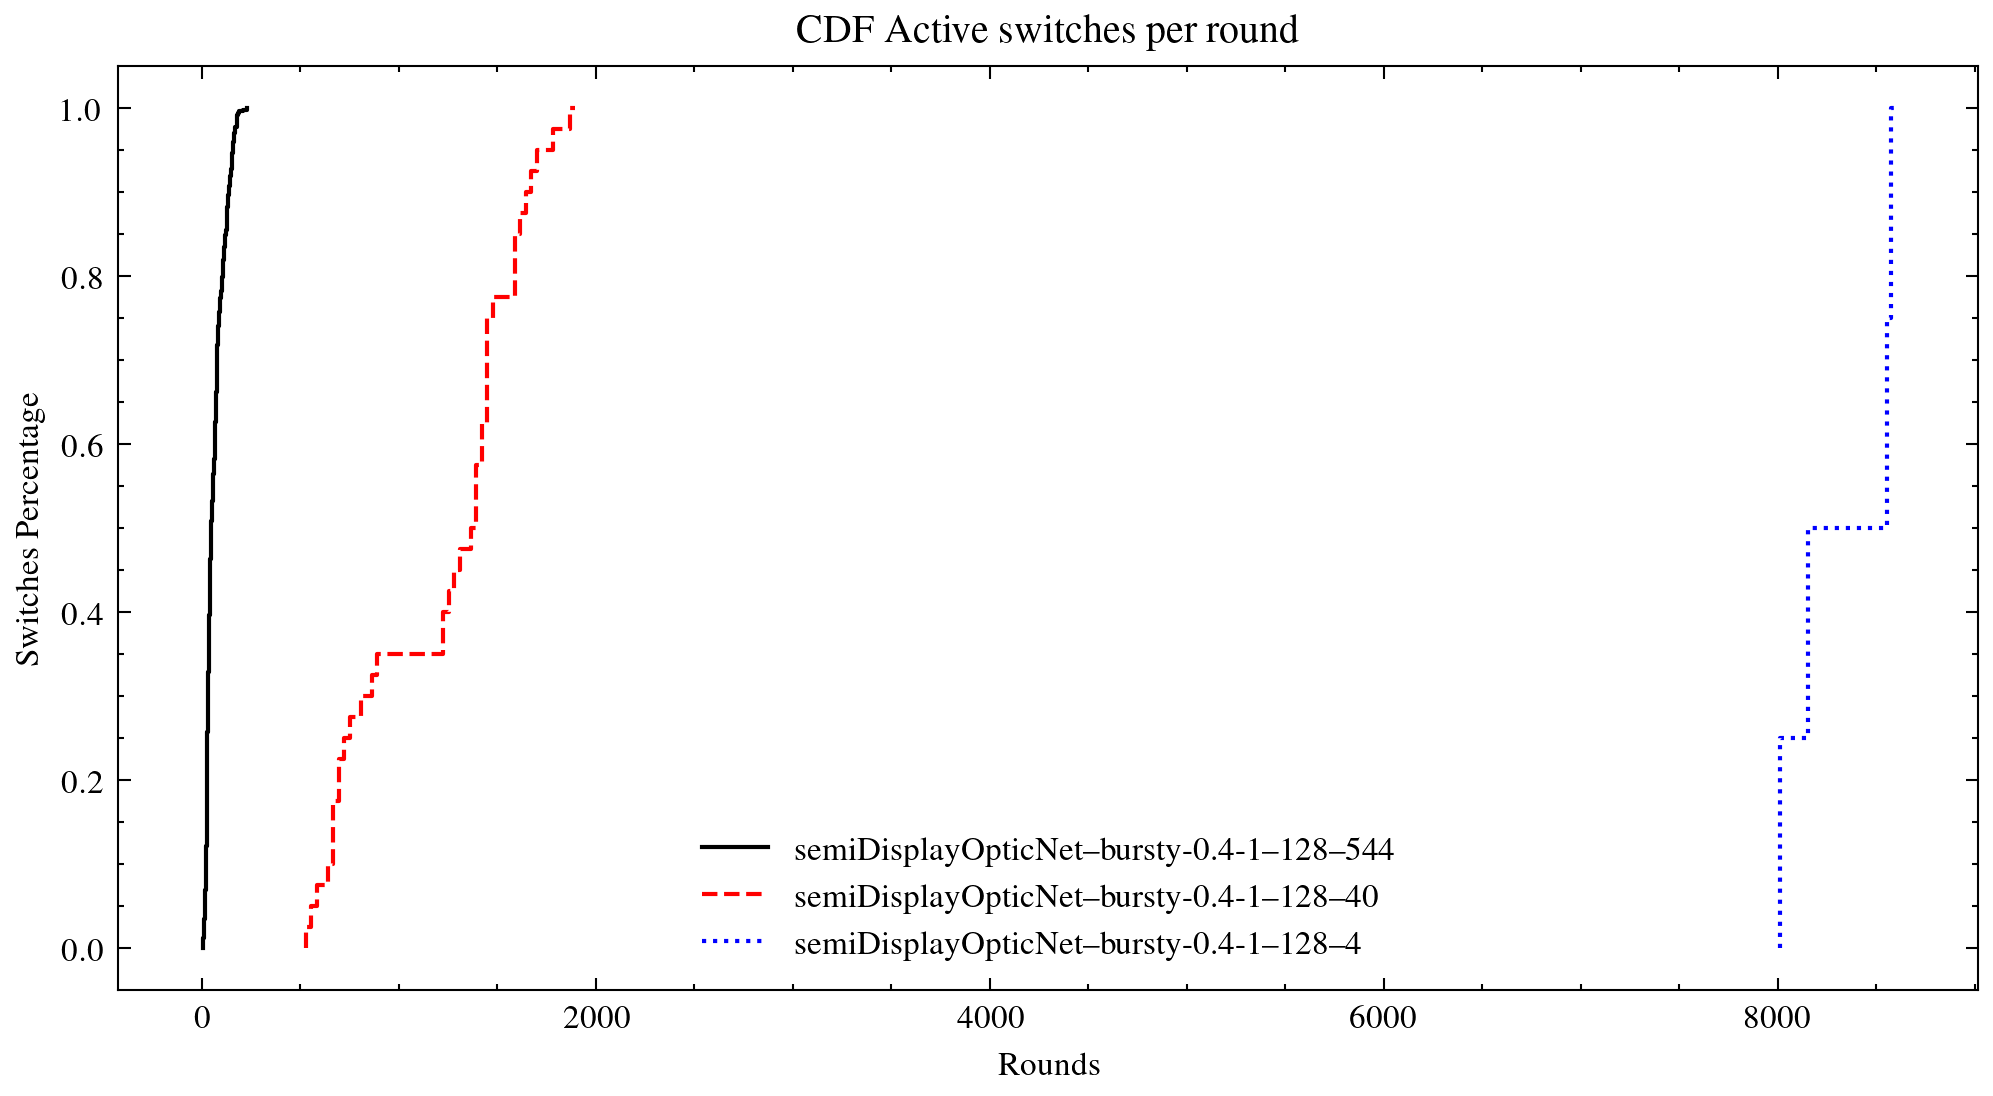
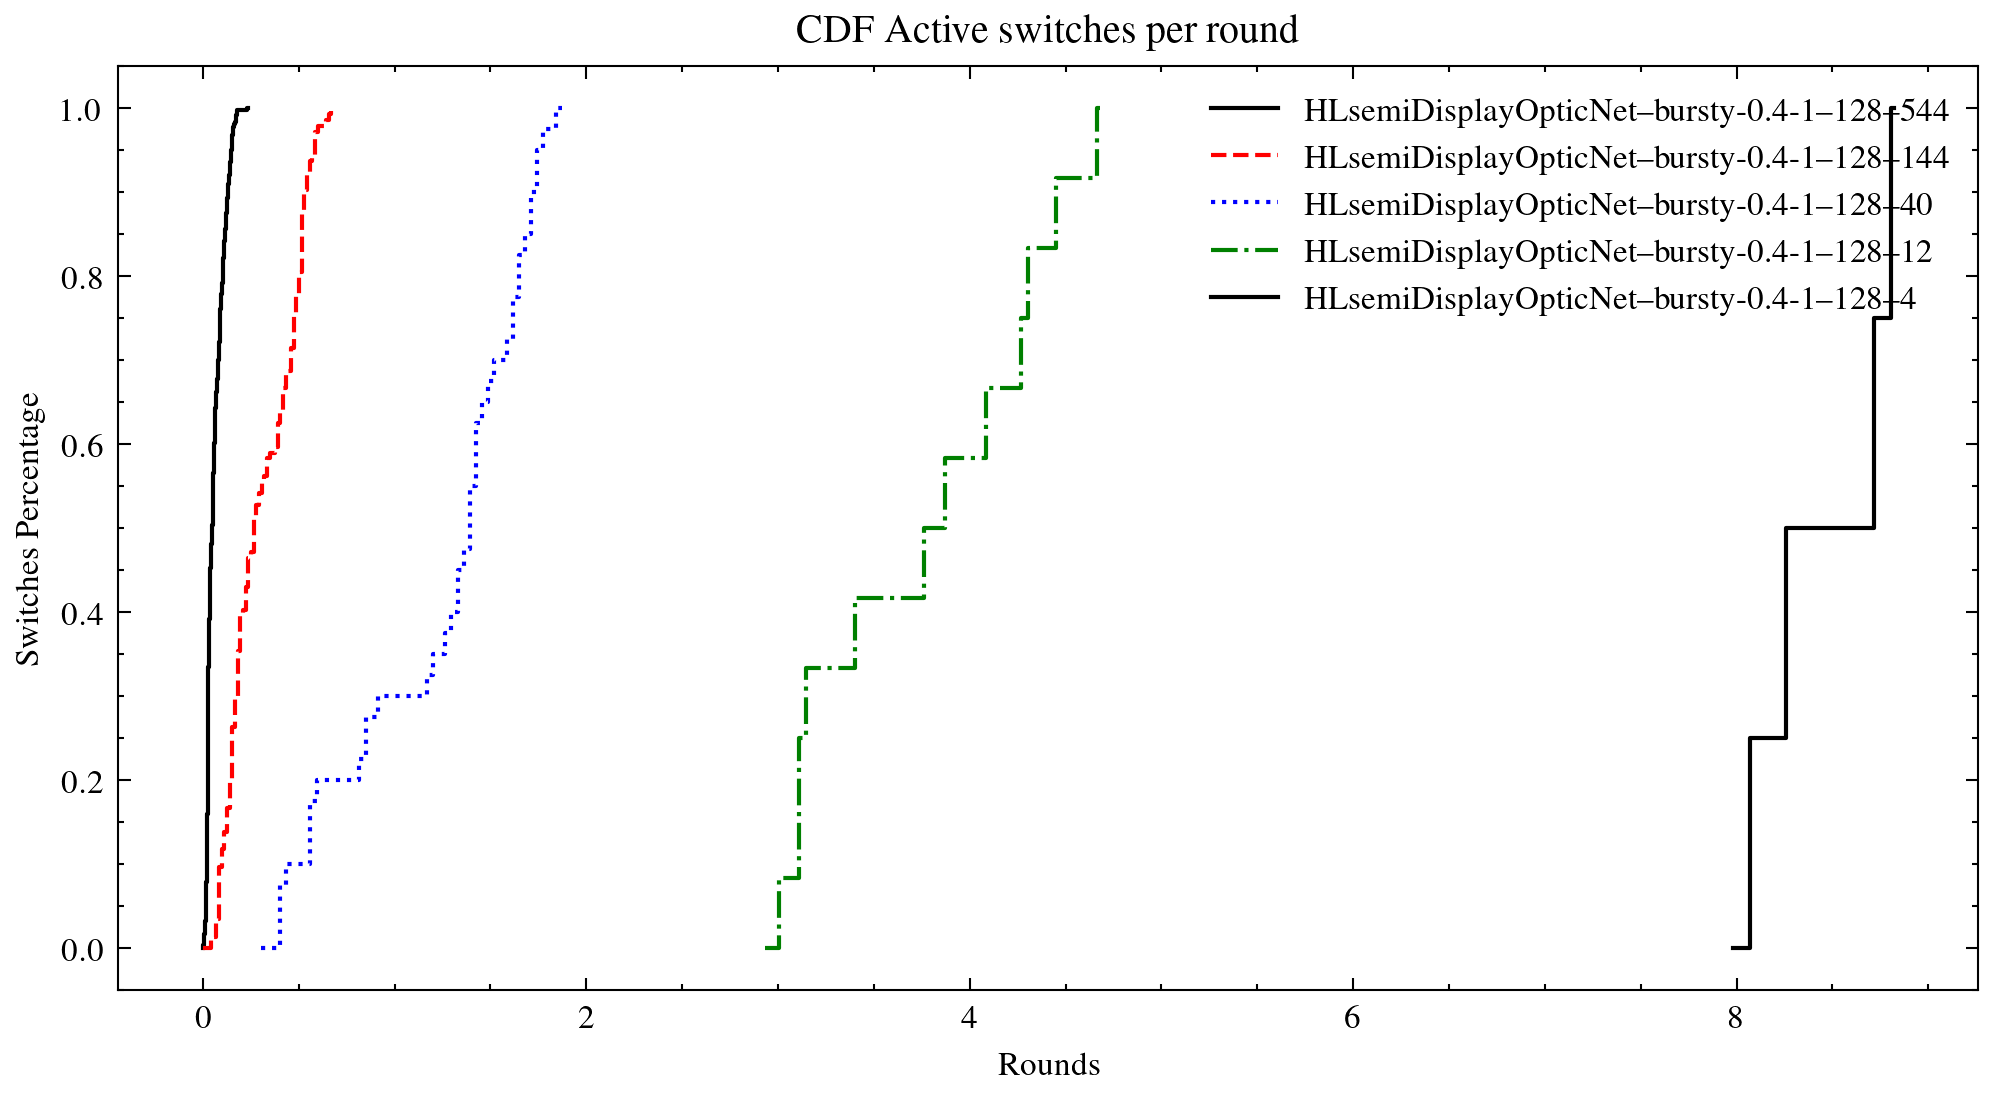
plot of total work by switch size

diff --git a/plotter/DataReader.py b/plotter/DataReader.py
@@ -54,21 +54,6 @@ class DataReader:
             f"logs/output/{self.dataset}/{self.project}_{self.num_nodes}/{self.switch_size}/{self.mu}/"
         )
 
-    def active_switches(self) -> np.ndarray:
-        rout_df = pd.read_csv(self.file_path / "1/routings.csv")
-        alt_df = pd.read_csv(self.file_path / "1/alterations.csv")
-
-        active_df = pd.concat(
-            [rout_df[["round", "switch"]], alt_df[["round", "switch"]]]
-        ).drop_duplicates().reset_index(drop=True)
-
-        total_active_switches = np.zeros(self.num_switches, dtype=np.int64)
-
-        for _, row in active_df.iterrows():
-            total_active_switches[row["switch"]] = 1
-
-        return total_active_switches
-
 
     def cdf_active_switches (self) -> np.ndarray:
         cdf = np.zeros(self.num_switches, dtype=np.float64)
@@ -83,7 +68,7 @@ class DataReader:
         for _, row in active_df.iterrows():
             cdf[row["switch"]] += 1
 
-        return cdf #/ 10**3
+        return cdf / 10**3
 
     def cdf_active_ports (self) -> np.ndarray:
         cdf = np.zeros((self.num_switches, self.switch_ports), dtype=np.float64)
@@ -165,7 +150,7 @@ class DataReader:
             file_df = pd.read_csv(self.file_path / f"{sim_id}/operations.csv")
 
             total_routing[sim_id - 1] = file_df.loc[file_df.name=="message-routing", "sum"].item()
-            total_heuristic_creation[sim_id - 1] = file_df.loc[file_df.name=="heuristic link creation", "sum"].item()
+            total_heuristic_creation[sim_id - 1] = file_df.loc[file_df.name=="heuristic-link-creation", "sum"].item()
             total_alterations[sim_id - 1] = file_df.loc[file_df.name=="alteration", "sum"].item()
 
         total_work = total_routing + total_alterations + total_heuristic_creation

diff --git a/plotter/Plotter.py b/plotter/Plotter.py
@@ -9,7 +9,9 @@ plt.style.use(["science","ieee"])
 abbr: dict[str, str] = {
     "cbOptNet": "CBN",
     "displayOpticNet": "ODSN",
-    "semiDisplayOpticNet": "DSN"
+    "semiDisplayOpticNet": "DSN",
+    "HLsemiDisplayOpticNet": "HLDSN",
+    "HLSplayOpticNet": "HLSON"
 }
 
 @dc.dataclass()
@@ -27,6 +29,7 @@ class Plotter:
         routing_means = []
         alteration_means = []
         heuristic_creation_means = []
+        switch_sizes = []
         work_stds = []
 
         for data in plot_data:
@@ -39,6 +42,7 @@ class Plotter:
             alteration_means.append(total_link_updates.mean() / normalize)
             heuristic_creation_means.append(total_heuristic_creation.mean() / normalize)
             work_stds.append((total_work / normalize).std())
+            switch_sizes.append(data.switch_size)
 
         if ax is None:
             fig, ax = plt.subplots(figsize=(8, 4))
@@ -47,13 +51,13 @@ class Plotter:
             ax.set_xlabel("Project")
             ax.set_ylabel("Work * 10 ^ 4")
 
-        ax.bar(project_names, routing_means, label="Service Cost", color=["silver"])
+        ax.bar(switch_sizes, routing_means, label="Service Cost", color=["silver"])
         ax.bar(
-            project_names, alteration_means, 
+            switch_sizes, alteration_means, 
             bottom=routing_means, label="Link Updates",  color=["grey"]
         )
         ax.bar(
-            project_names, heuristic_creation_means, yerr=work_stds,
+            switch_sizes, heuristic_creation_means, yerr=work_stds,
             bottom=routing_means, label="Heuristic Links",  color=["red"]
         )
         ax.legend(loc="best")

diff --git a/plotter/plot_script.py b/plotter/plot_script.py
@@ -23,8 +23,11 @@ reload(Plotter)
 
 # In[3]:
 
-projects = [ "semiDisplayOpticNet"]
-switch_sizes = [ 16, 64, 256 ]
+projects = [ "HLsemiDisplayOpticNet"
+#,"semiDisplayOpticNet"
+#,"HLSplayOpticNet"
+]
+switch_sizes = [ 16, 32, 64, 128, 256 ]
 num_simulations = 30
 datasets = [ "bursty-0.4-1" ]
 num_nodes = [ 128 ]
@@ -82,27 +85,6 @@ print(tor_data[slc])
 
 
 # In[9]:
-
-
-fig, ax = plt.subplots(figsize=(8, 4))
-ax.set_title("Total Active Switches vs Switch Size")
-ax.set_xlabel("Switch Size")
-ax.set_ylabel("Total Active Switches")
-
-colors = plt.cm.tab10(np.linspace(0, 1, len(tor_data[slc])))
-
-for idx, data in enumerate(tor_data[slc]):
-    switch_size = data.switch_size
-    total_active_switches = np.sum(data.active_switches()) # Total active switches
-    ax.scatter(switch_size, total_active_switches, label=f"{data.project}--{data.dataset}--{data.num_nodes}--{switch_size}", color=colors[idx])
-
-ax.legend(loc="best", frameon=False)
-#ax.grid(True)
-ax.plot()
-fig.savefig(f"output/{sys.argv[1]}/active_switches_x_switch_size.png", dpi=300, transparent=False)
-plt.close(fig)
-
-print("finish")
 
 fig, ax = plt.subplots(figsize=(7, 4))
 ax.set_ylabel("Work 10**4")

diff --git a/scripts_win/bursty.py b/scripts_win/bursty.py
@@ -24,7 +24,7 @@ projects = [ "semiDisplayOpticNet" ]
 
 # parameters of simulation
 num_nodes = [ 128 ]
-switch_sizes = [ 16, 32, 64, 128, 256 ]
+switch_sizes = [ 16, 32, 64, 128, -1 ]
 sequential = [ "false", "true" ]
 mus = [ 4 ]
 num_simulations = 30
@@ -96,12 +96,12 @@ for project in projects:
                                 if sequentiality == "true":
                                     output_path = (
                                         "output/bursty-" +
-                                        f"{dataset}/SplayOpticNet_{num_node}/{switch_size}/{mu}/{sim_id}/"
+                                        f"{dataset}/HLSplayOpticNet_{num_node}/{switch_size}/{mu}/{sim_id}/"
                                     )
                                 else:
                                     output_path = (
                                         "output/bursty-" +
-                                        f"{dataset}/{project}_{num_node}/{switch_size}/{mu}/{sim_id}/"
+                                        f"{dataset}/HL{project}_{num_node}/{switch_size}/{mu}/{sim_id}/"
                                     )
 
                                 input_file = (
